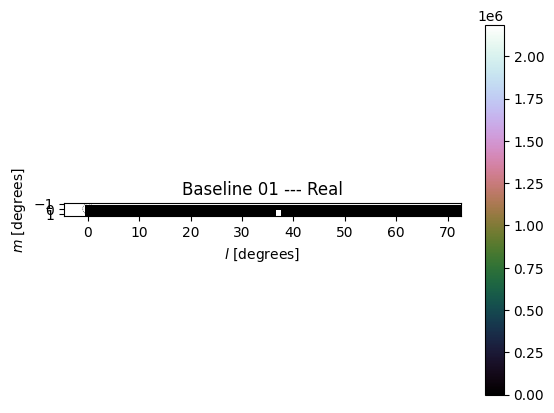
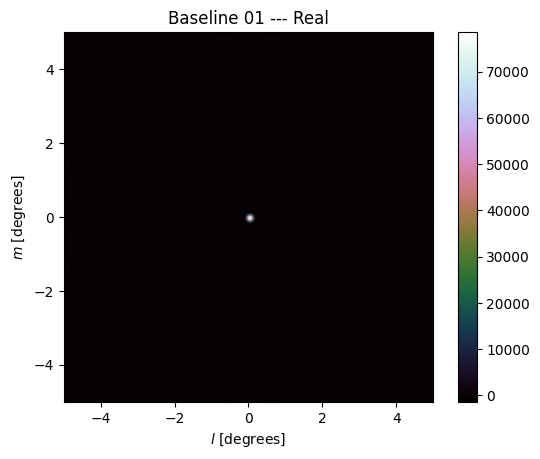
created cut out script

diff --git a/EW-Array-Ghosts/EW-ghosts.py b/EW-Array-Ghosts/EW-ghosts.py
@@ -102,8 +102,8 @@ class T_ghost:
         elif type_plot == "GTR":
             vis = (g_pq) ** (-1) * r_pq
 
-        if kernel:
-            vis = vis * g_kernal
+        # if kernel:
+        #     vis = vis * g_kernal
         vis = vis[:, ::-1]
 
         # IMAGING QUICKLY
@@ -115,19 +115,40 @@ class T_ghost:
         zz_f = np.roll(zz_f, -int(zz.shape[0] / 2), axis=0)
         zz_f = np.roll(zz_f, -int(zz.shape[0] / 2), axis=1)
 
-        # Plot along the horizontal of the G and GT images, for the point source cases too, comment out the extent and use zz_final
-        # N = len(zz_f) / 2
-        # N1 = N % 2 != 0
-        # inc = 0
-        # size = 1
-        # if N1:
-        #     size = 2
+        # Plot along the horizontal of the G and GT images m and R, for the point source cases too, comment out the extent and use zz_final
+        N = len(zz_f) / 2
+        N1 = N % 2 != 0
+        inc = 0
+        size = 1
+        if N1:
+            size = 2
 
-        # zz_final = np.empty((size, len(zz)), complex)
-        # for i in range(len(zz_f)):
-        #     if i == int(N) or (N1 and i == int(N) + 1):
-        #         zz_final[inc] = zz_f[i]
-        #         inc += 1
+        zz_final = np.empty((size, len(zz)), complex)
+        for i in range(len(zz_f)):
+            if i == int(N) or (N1 and i == int(N) + 1):
+                zz_final[inc] = zz_f[i]
+                inc += 1
+
+        average = []
+        if zz_final.shape[0] == 2:
+            average = (zz_final[0] + zz_final[1]) / 2
+        else:
+            average = zz_final[0]
+
+        # print(type_plot)
+        # print(zz_final[0])
+        # print(zz_final[1])
+        # print(zz_final[0] + zz_final[1])
+        # print(average)
+        # print(zz_final.shape[0])
+
+        x_val = np.linspace(-s_old * image_s, s_old * image_s, len(average))
+
+        save = np.array([average, x_val])
+        if kernel:
+            np.save("data/" + type_plot + "_point", save)
+        else:
+            np.save("data/" + type_plot + "_gauss", save)
 
         # print(type_plot, zz_final)
 
@@ -159,6 +180,8 @@ class T_ghost:
             format="png",
             bbox_inches="tight",
         )
+        plt.clf()
+        plt.cla()
 
     """
     resolution --- resolution in image domain in arcseconds
@@ -421,7 +444,7 @@ if __name__ == "__main__":
 
     baseline = np.array(args.baseline)
     phi = np.array([[0, 3, 5], [-3, 0, 2], [-5, -2, 0]])
-    image_s = 1
+    image_s = 5
     s = 1
     resolution = 100
 

diff --git a/EW-Array-Ghosts/plotNumpy.py b/EW-Array-Ghosts/plotNumpy.py
@@ -1,0 +1,32 @@
+import numpy as np
+import matplotlib.pyplot as plt
+
+
+def plot_and_save(gauss, point, label):
+    fig, (ax1, ax2) = plt.subplots(1, 2)
+    fig.suptitle(label)
+    ax1.plot(gauss[1], gauss[0])
+    ax1.set_title("Gaussian")
+    ax2.plot(point[1], point[0])
+    ax2.set_title("Point")
+
+    plt.savefig("vs_graphs/" + label + ".png")
+
+    plt.clf()
+    plt.cla()
+
+
+G_gauss = np.load("data\G_gauss.npy")
+GT_gauss = np.load("data\GT_gauss.npy")
+M_gauss = np.load("data\M_gauss.npy")
+R_gauss = np.load("data\R_gauss.npy")
+
+G_point = np.load("data\G_point.npy")
+GT_point = np.load("data\GT_point.npy")
+M_point = np.load("data\M_point.npy")
+R_point = np.load("data\R_point.npy")
+
+plot_and_save(G_gauss, G_point, "G")
+plot_and_save(GT_gauss, GT_point, "GT")
+plot_and_save(M_gauss, M_point, "M")
+plot_and_save(R_gauss, R_point, "R")
